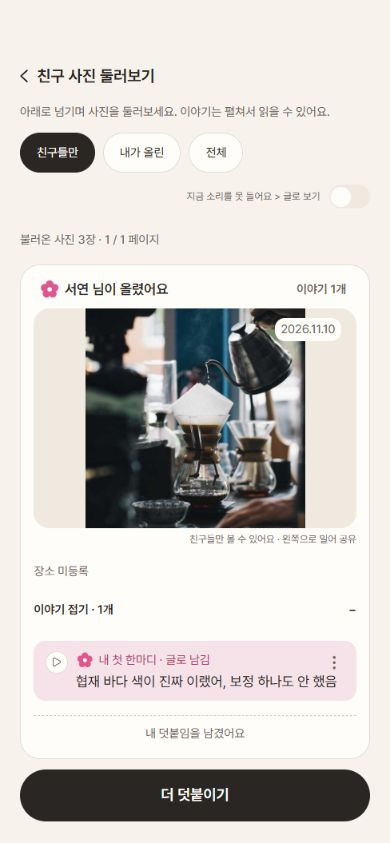
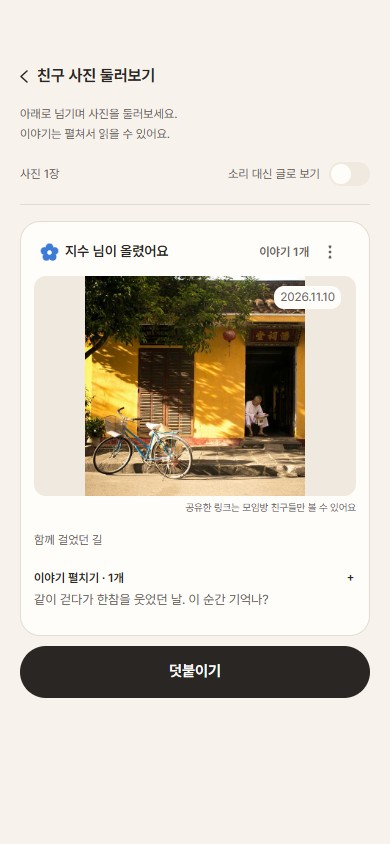
docs: 최신 둘러보기 설명과 덧붙이기 화면 캡처 반영

diff --git a/README.md b/README.md
@@ -66,17 +66,20 @@
 | 핀 꽃·참여현황 | 사진과 이야기 수, 사람별 참여현황을 확인하고 친구의 기록으로 이동합니다. |
 | 엮는 날 설정 | 날짜를 정해 기록을 모으거나, 방장이 지금까지 모인 기록으로 엮기를 시작합니다. |
 
-### 02. 돌려보기 — 사진 속 빠진 이야기를 채워요
+### 02. 둘러보기 — 친구 사진에 내 기억을 더해요
 
-친구의 사진과 첫 한마디를 보고 떠오르는 이야기를 덧붙입니다. 소리를 듣기 어려울 때는 글로 볼 수 있고, AI가 보낸 되묻기에도 답할 수 있습니다.
+친구들이 올린 사진을 둘러보고, 기억나는 이야기를 말이나 글로 덧붙입니다. 사진마다 이야기를 펼쳐 읽고, 소리를 듣기 어려울 때는 ‘소리 대신 글로 보기’로 확인합니다.
 
-<p align="center">
-  <img src="./docs/readme/circulation.jpg" alt="사진에서 이야기를 펼쳐 읽고 덧붙이는 화면" width="270" />
-</p>
+<table>
+  <tr><th align="center">친구 사진 둘러보기</th><th align="center">이야기 덧붙이기</th></tr>
+  <tr>
+    <td align="center"><img src="./docs/readme/circulation.jpg" alt="친구 사진 목록에서 이야기를 펼쳐 읽고 덧붙이는 화면" width="270" /></td>
+    <td align="center"><img src="./docs/readme/contribution.jpg" alt="친구 사진에 떠오르는 기억을 글로 덧붙이는 화면" width="270" /></td>
+  </tr>
+</table>
 
-- **친구들만 / 내가 올린 / 전체** 필터로 사진을 둘러봅니다.
-- 이야기를 펼쳐 읽거나 음성을 재생하고, 같은 사진에 새 기억을 더합니다.
-- 사진은 묶음 단위로 불러오며 페이지 이동과 추가 조회를 지원합니다.
+- 친구 사진은 **‘친구 사진 둘러보기’**, 내 사진은 모임방의 **핀 꽃**에서 확인합니다.
+- **‘덧붙이기’**로 같은 순간에 대한 내 기억을 더합니다.
 
 ### 03. 엮기 — 우리 이야기를 하나의 두루마리로
 

diff --git a/docs/readme/README.md b/docs/readme/README.md
@@ -5,7 +5,8 @@
 | 파일 | 화면 | 촬영 경로 |
 | --- | --- | --- |
 | `room-home.jpg` | 핀 꽃·참여현황 | `/rooms/lively` |
-| `circulation.jpg` | 사진의 이야기 펼치기 | `/rooms/lively/circulation` |
+| `circulation.jpg` | 최신 친구 사진 둘러보기 목록 | `/rooms/qa/circulation` |
+| `contribution.jpg` | 친구 사진에 글로 기억 덧붙이기 | 같은 목록의 덧붙이기 → 글로 답하기 |
 | `templates.jpg` | 템플릿 펼치기 탭 | `/rooms/scroll-review/weaving?capture=1` |
 | `template-preview.jpg` | 경주 템플릿 미리보기 | 같은 화면의 미리보기 탭 |
 | `scroll.jpg` | 두루마리 펼쳐 읽기 | 같은 화면에서 템플릿 적용 후 펼치기 |
@@ -19,3 +20,5 @@
 - 지역·시즌 템플릿 그림과 지도는 서비스가 사용 중인 기존 자산입니다.
 - 플랜 안내 캡처의 방·인원·카탈로그는 로컬 API 예시 응답입니다. 실제 결제는 진행하지 않았습니다.
 - 일부 예시 사진은 기존 데모의 외부 샘플 사진이므로 문장의 장소와 사진 내용이 일치하지 않을 수 있습니다.
+
+- `circulation.jpg`와 `contribution.jpg`는 최신 UI에서 다시 촬영했습니다. 로컬 모의 API로 친구 사진 한 장을 제공하고, 덧붙임은 입력만 했으며 실제 서버에 저장하지 않았습니다.
